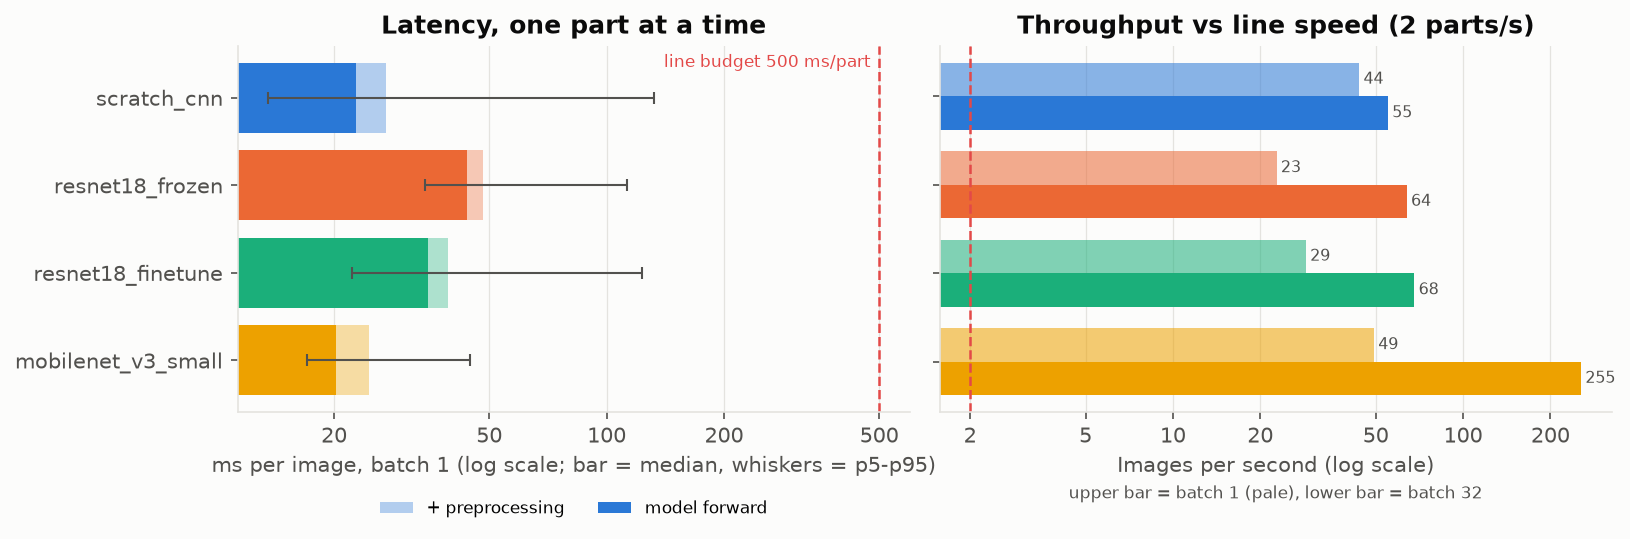
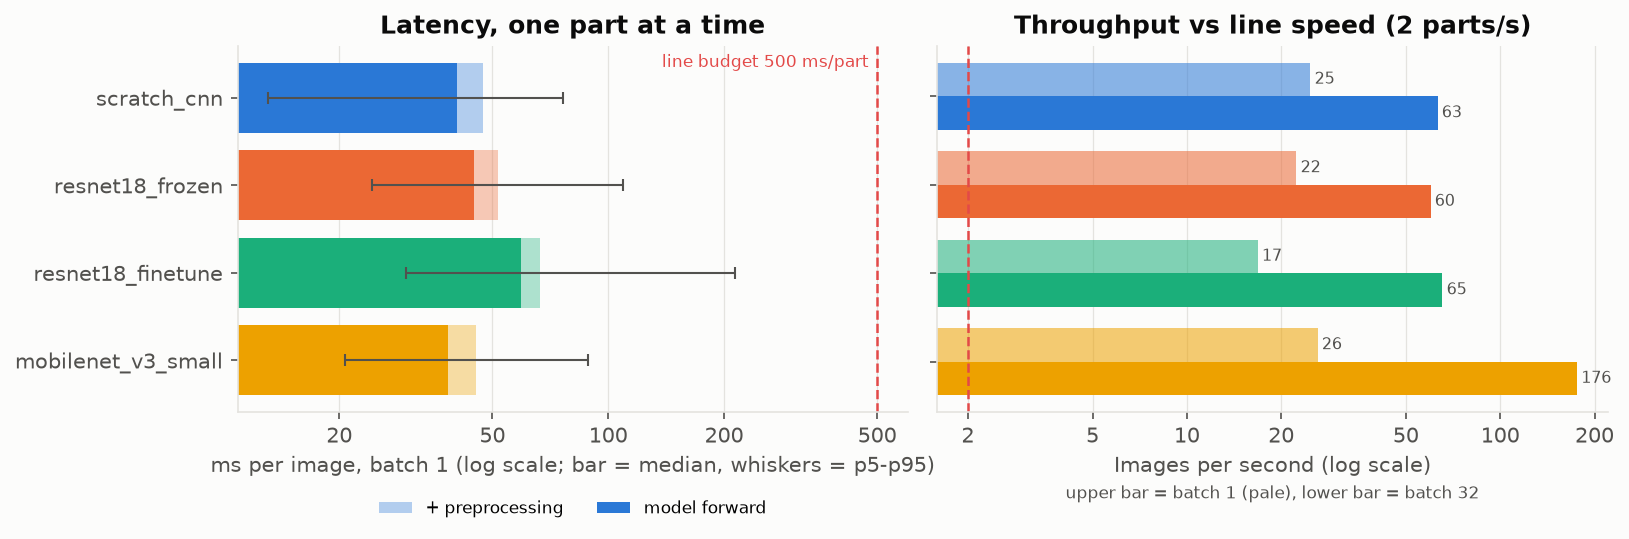
Re-run fast pipeline end to end: results reproduce exactly, only timings change

diff --git a/report/REPORT_NOTES.md b/report/REPORT_NOTES.md
@@ -29,10 +29,10 @@ _Generated 2026-10-18 by `scripts/10_make_report_notes.py`. Every number below i
 
 | model | average_precision | roc_auc | recall_at_p95 | best_epoch | train_sec | params_trainable |
 |---|---|---|---|---|---|---|
-| scratch_cnn | 0.747 | 0.881 | 0.583 | 3 | 68 | 1,173,473 |
-| resnet18_frozen | 0.569 | 0.782 | 0.333 | 3 | 23 | 513 |
-| resnet18_finetune | 0.994 | 0.999 | 0.917 | 1 | 48 | 11,177,025 |
-| mobilenet_v3_small | 0.879 | 0.985 | 0.417 | 3 | 21 | 1,518,881 |
+| scratch_cnn | 0.747 | 0.881 | 0.583 | 3 | 114 | 1,173,473 |
+| resnet18_frozen | 0.569 | 0.782 | 0.333 | 3 | 43 | 513 |
+| resnet18_finetune | 0.994 | 0.999 | 0.917 | 1 | 95 | 11,177,025 |
+| mobilenet_v3_small | 0.879 | 0.985 | 0.417 | 3 | 67 | 1,518,881 |
 
 - Background-only baseline on val: AP 0.615.
 
@@ -53,18 +53,18 @@ Test: 118 images, 12 defects, 38 duplicate groups. Selected model (best val AP):
 
 | model | AP [95% CI] | AUC [95% CI] | brier | test_precision_p95 | test_recall_p95 |
 |---|---|---|---|---|---|
-| scratch_cnn | 0.694 [0.429, 0.901] | 0.869 [0.659, 0.983] | 0.067 | 1.000 | 0.417 |
-| resnet18_frozen | 0.632 [0.375, 0.870] | 0.818 [0.655, 0.945] | 0.265 | 1.000 | 0.417 |
-| resnet18_finetune | 0.994 [0.967, 1.000] | 0.999 [0.995, 1.000] | 0.076 | 1.000 | 0.833 |
-| mobilenet_v3_small | 0.941 [0.836, 1.000] | 0.991 [0.971, 1.000] | 0.048 | 1.000 | 0.500 |
-| background_only | 0.542 [0.315, 0.818] | 0.939 [0.853, 0.985] | 0.077 | 1.000 | 0.083 |
+| scratch_cnn | 0.694 [0.429, 0.924] | 0.869 [0.691, 0.985] | 0.067 | 1.000 | 0.417 |
+| resnet18_frozen | 0.632 [0.358, 0.870] | 0.818 [0.651, 0.949] | 0.265 | 1.000 | 0.417 |
+| resnet18_finetune | 0.994 [0.966, 1.000] | 0.999 [0.995, 1.000] | 0.076 | 1.000 | 0.833 |
+| mobilenet_v3_small | 0.941 [0.829, 1.000] | 0.991 [0.969, 1.000] | 0.048 | 1.000 | 0.500 |
+| background_only | 0.542 [0.303, 0.878] | 0.939 [0.846, 0.986] | 0.077 | 1.000 | 0.083 |
 
 Paired AP difference (selected minus other):
 
-- vs scratch_cnn: +0.300 [+0.091, +0.570] (CI excludes 0)
-- vs resnet18_frozen: +0.362 [+0.126, +0.618] (CI excludes 0)
-- vs mobilenet_v3_small: +0.052 [-0.009, +0.164]
-- vs background_only: +0.452 [+0.182, +0.684] (CI excludes 0)
+- vs scratch_cnn: +0.300 [+0.071, +0.567] (CI excludes 0)
+- vs resnet18_frozen: +0.362 [+0.120, +0.641] (CI excludes 0)
+- vs mobilenet_v3_small: +0.052 [-0.009, +0.167]
+- vs background_only: +0.452 [+0.122, +0.685] (CI excludes 0)
 
 At the val 95%-precision threshold (0.744): TP 10, FP 0, FN 2, TN 106.
 Figures: `results/figures/pr_roc_curves_fast.png`, `results/figures/reliability_fast.png`, `results/figures/confusion_matrix_fast.png`, `results/figures/error_gallery_fast.png`
@@ -103,18 +103,18 @@ Figures: `results/figures/cost_curve_fast.png`, `results/figures/cost_sensitivit
 
 ## 6. Latency - FAST smoke run
 
-Device `cpu`, 8 threads, 128px; preprocessing 4.3 ms/image; line budget 500 ms/part.
+Device `cpu`, 8 threads, 128px; preprocessing 7.0 ms/image; line budget 500 ms/part.
 
 | model | batch_size | median_ms_per_image | p95_ms_per_image | images_per_sec | headroom_vs_line | checkpoint_mb |
 |---|---|---|---|---|---|---|
-| scratch_cnn | 1 | 22.789 | 131.921 | 43.882 | 22x | 4.719 |
-| scratch_cnn | 32 | 18.148 | 21.887 | 55.104 | 28x | 4.719 |
-| resnet18_frozen | 1 | 43.889 | 112.771 | 22.785 | 11x | 44.788 |
-| resnet18_frozen | 32 | 15.625 | 21.416 | 64.001 | 32x | 44.788 |
-| resnet18_finetune | 1 | 34.788 | 122.987 | 28.746 | 14x | 44.789 |
-| resnet18_finetune | 32 | 14.712 | 18.029 | 67.972 | 34x | 44.789 |
-| mobilenet_v3_small | 1 | 20.267 | 44.695 | 49.341 | 25x | 6.213 |
-| mobilenet_v3_small | 32 | 3.918 | 8.607 | 255.250 | 128x | 6.213 |
+| scratch_cnn | 1 | 40.331 | 76.052 | 24.795 | 12x | 4.719 |
+| scratch_cnn | 32 | 15.842 | 20.206 | 63.123 | 32x | 4.719 |
+| resnet18_frozen | 1 | 44.694 | 109.111 | 22.374 | 11x | 44.788 |
+| resnet18_frozen | 32 | 16.679 | 20.235 | 59.956 | 30x | 44.788 |
+| resnet18_finetune | 1 | 59.397 | 214.141 | 16.836 | 8x | 44.789 |
+| resnet18_finetune | 32 | 15.286 | 24.000 | 65.419 | 33x | 44.789 |
+| mobilenet_v3_small | 1 | 38.235 | 88.525 | 26.154 | 13x | 6.213 |
+| mobilenet_v3_small | 32 | 5.685 | 9.108 | 175.912 | 88x | 6.213 |
 
 Figure: `results/figures/latency_fast.png`
 
